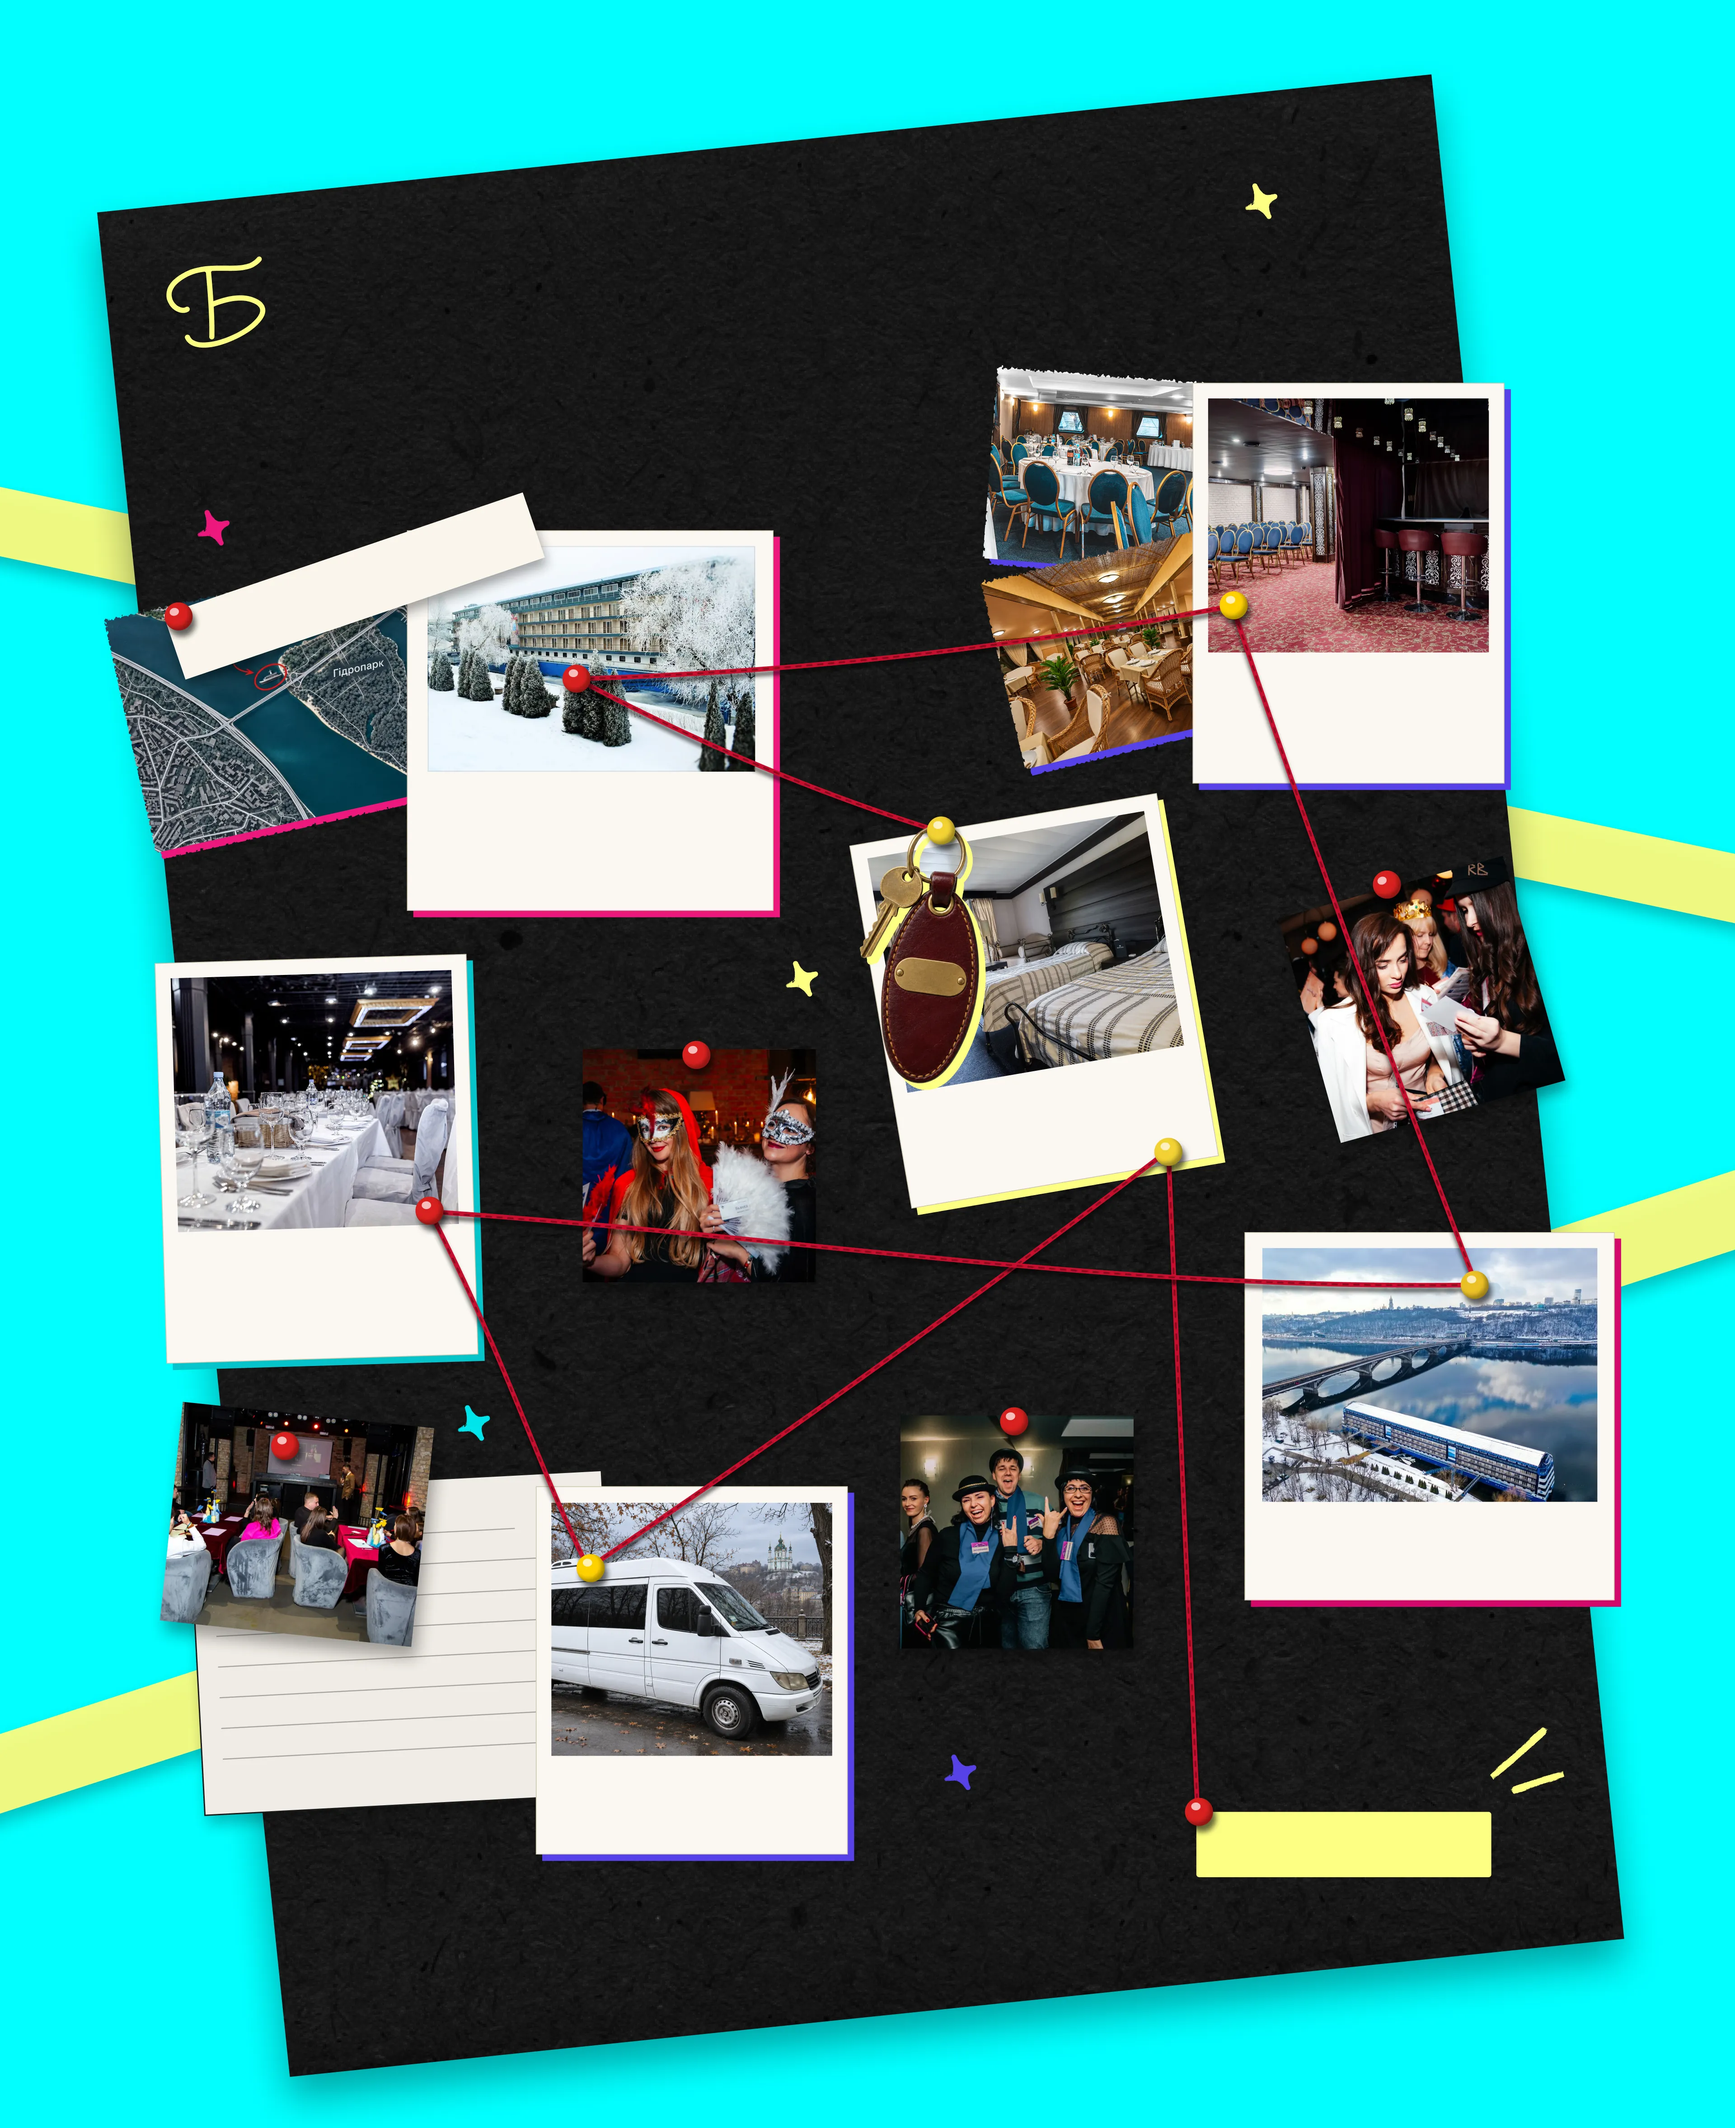
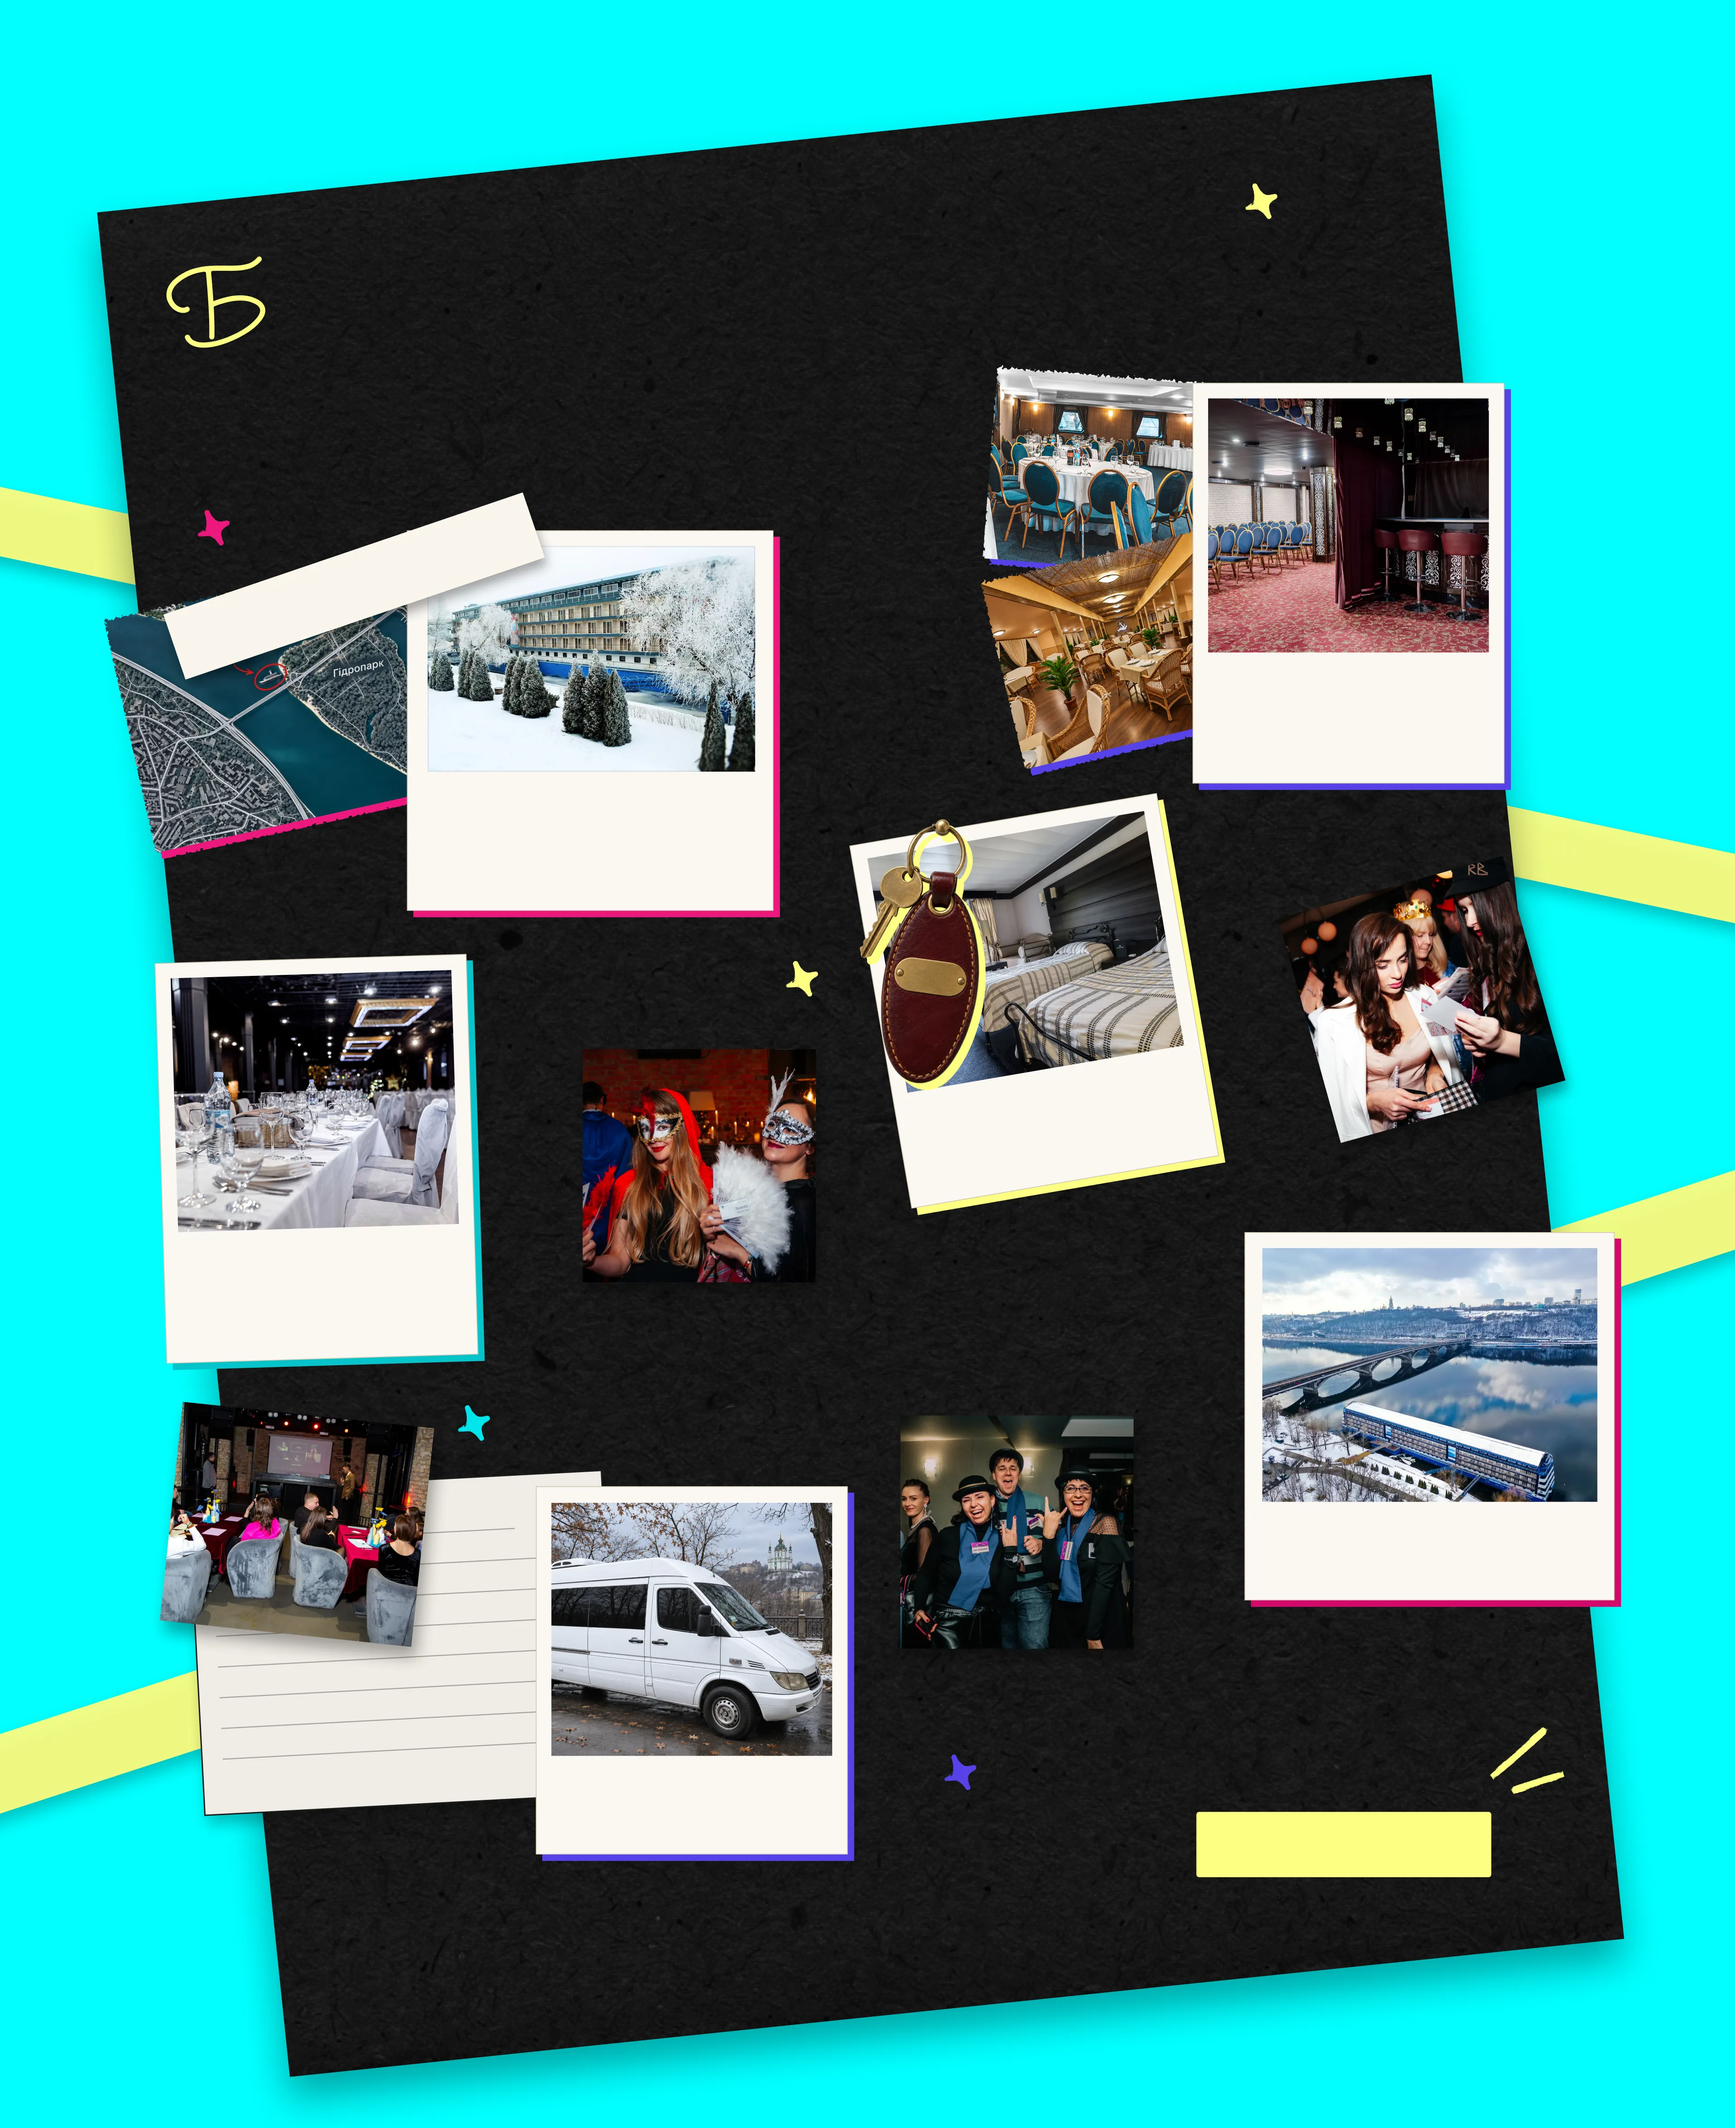
Безпека: біжучі стрічки, нитки окремим шаром; сценарії на всю ширину
Claude-Session: https://claude.ai/code/session_01RrQKAm57iiCP2FEsnNSc33

diff --git a/index.html b/index.html
@@ -144,6 +144,13 @@ button:focus-visible{outline:3px solid var(--y);outline-offset:5px}
 #board{height:2354px;background:var(--cy) url(img/v5/board2x.webp) 0 0/1920px 2354px no-repeat}
 #board .hv,#board .bc{position:absolute;background-image:url(img/v5/board2x.webp);background-size:1920px 2354px;background-repeat:no-repeat}
 #board .rb{position:absolute;left:0;top:0;width:1920px;height:2354px;pointer-events:none}
+#board .tape{position:absolute;left:0;top:0;transform-origin:0 0;overflow:hidden}
+#board .trk{position:absolute;display:flex;white-space:nowrap;font-family:Montserrat,sans-serif;font-weight:700;line-height:1;color:#1b1b1b;animation:tape 40s linear infinite}
+#board .trk.rev{animation-direction:reverse}
+#board .trk span{display:flex;gap:var(--g);padding-right:var(--g)}
+#board .trk b{font-weight:700}
+@keyframes tape{from{transform:translateX(0)}to{transform:translateX(-50%)}}
+#board .thr{position:absolute;left:0;top:0;width:1920px;height:2354px;pointer-events:none;max-width:none}
 #board .hv{transition:transform .5s var(--ez);transform-origin:50% 50%}
 #board .hv:hover{transform:translateY(-3px) scale(1.035) rotate(var(--r));z-index:2}
 #board .bc{border:0;padding:0;cursor:pointer;font:700 22.4px/26.88px Montserrat,sans-serif;text-transform:uppercase;color:#0b0908;transition:transform .4s var(--ez)}
@@ -449,7 +456,7 @@ const KX=TP.kx,X0=TP.x0;
 let vhS=1000,sc2=1,tY=0;
 function tLayout(k){vhS=innerHeight/k;tst.style.height=vhS+'px';tblw.style.height=(vhS+DIST)+'px';
   // the scene is the 1920x1215 Figma frame, pinned to the bottom of the screen so the board follows straight after
-  sc2=Math.min(1,vhS/FH);const tx=(1920-1920*sc2)/2;tY=vhS-FH*sc2;tstrip.style.top=(tY+STRIP*sc2)+'px';tin.style.transform=`translate(${tx}px,${tY}px) scale(${sc2})`;
+  sc2=Math.min(1,vhS/(FH-150));const tx=(1920-1920*sc2)/2;tY=vhS-FH*sc2;tstrip.style.top=(tY+STRIP*sc2)+'px';tin.style.transform=`translate(${tx}px,${tY}px) scale(${sc2})`;
   const ex=Math.ceil(tx/sc2)+2;tcv.style.left=(-ex)+'px';if(tR){tR.size(1920+2*ex,TH,k*sc2,2);tR.vx=-ex;}}
 function openAmt(i,x){if(i===4&&x<KX[4])return 1;return 1-sm(110,290,Math.abs(x-KX[i]));}
 function descAmt(i,x){if(i===4&&x<KX[4])return 1;return 1-sm(60,210,Math.abs(x-KX[i]));}
@@ -479,9 +486,15 @@ const HV=[[450.3,586.6,405.7,420.9,1.4],[1319.7,423.5,345.2,443.3,-1.3],[939.9,9
   e.style.cssText=`left:${x}px;top:${y}px;width:${w}px;height:${h}px;background-position:${-x}px ${-y}px;--r:${r}deg`;return {e,x,y,w,h};});
 // ribbon captions run under the board, so they are clipped to the area outside it, like in Figma
 const rb=G(board,'rb');rb.style.clipPath="path(evenodd,'M-600 -600H2600V3000H-600Z M107.4 235L1584.1 82.3L1797.4 2144.7L320.7 2297.5Z')";
-D.board.slice(0,16).forEach(t=>TX(t,rb,0,0,'p'));
+// running ribbons: endless «БЕЗПЕЧНЕ СВЯТО · Q-TEAM» lines inside the two yellow tapes
+[[[0.9784,0.2069,-0.2069,0.9784,-15.1445,535.3203],2105.36,75.16,30.97,1.86,37.16,24.78,18.58,1],
+ [[0.9511,-0.309,0.309,0.9511,-349.9531,2031.834],2574.93,83.81,34.84,2.09,41.81,27.88,20.91,-1]].forEach(([m,w,h,fs,ls,gap,pl,pt,dir])=>{
+  const t=$('div','tape',rb);t.style.cssText=`width:${w}px;height:${h}px;transform:matrix(${m.join(',')})`;
+  const half=`<span>${'<b>БЕЗПЕЧНЕ СВЯТО</b><b>Q-TEAM</b>'.repeat(6)}</span>`;
+  const tr=$('div','trk'+(dir<0?' rev':''),t);tr.style.cssText=`top:${pt}px;left:${pl}px;font-size:${fs}px;letter-spacing:${ls}px;--g:${gap}px`;tr.setAttribute('aria-hidden','true');tr.innerHTML=half+half;});
 D.board.slice(16).forEach(t=>{const px=t.m[4],py=t.m[5];let g=null;for(let i=HV.length-1;i>=0;i--){const h=HV[i];if(px>=h.x&&px<=h.x+h.w&&py>=h.y&&py<=h.y+h.h){g=h;break;}}
   g?TX(t,g.e,-g.x,-g.y,'p'):TX(t,board,0,0,'p');});
+{const im=$('img','thr',board);im.src='img/v5/threads2x.webp';im.alt='';im.setAttribute('aria-hidden','true');im.decoding='async';}
 {const b=[1323.93,2004.29,326.4,72.25];const x=$('button','bc',board);x.type='button';x.dataset.go='quiz';x.textContent='Залишити заявку';
   x.style.cssText=`left:${b[0]}px;top:${b[1]}px;width:${b[2]}px;height:${b[3]}px;background-position:${-b[0]}px ${-b[1]}px`;}
 
